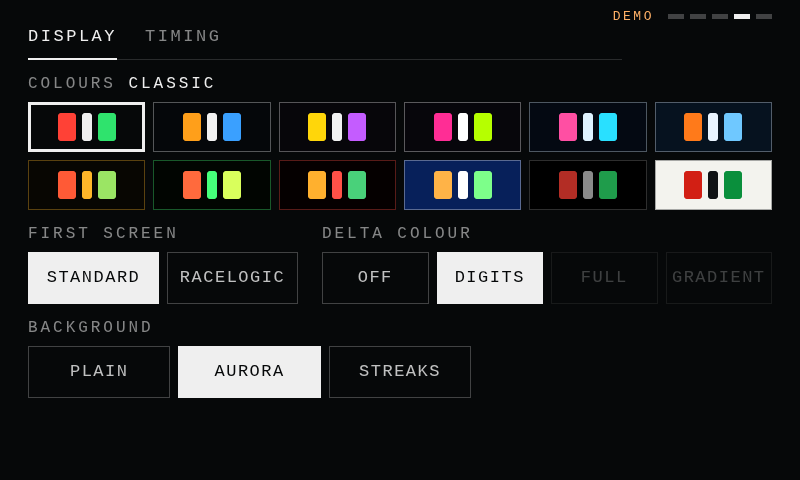
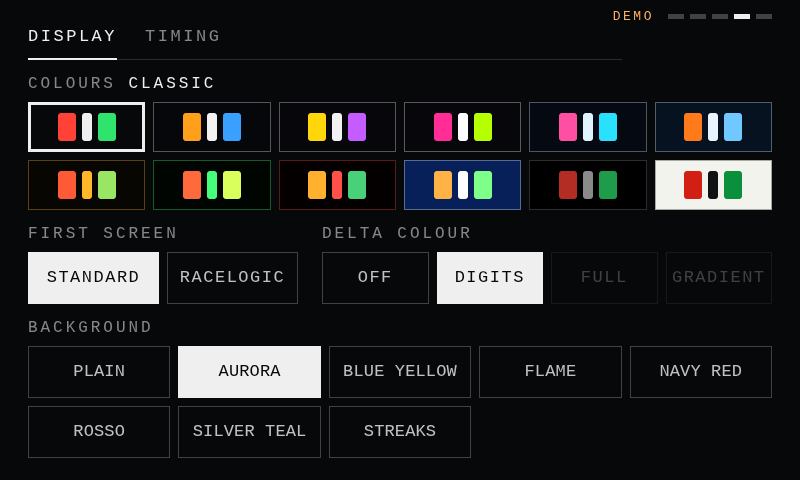
Back leaves demo laps, and bring the README up to date
Back on the first screen now leaves demo laps; from any other screen it still
returns to the first one, so a demo lap survives a trip to the options pages.

The README's install section leads with the bridgething store, now that the
catalog is published and listed in the directory, and keeps building from the
repo as the second route. The Display options screenshot is retaken with every
background, and the Timing options and waiting screens join the table.

diff --git a/apps/lap-timer/src/App.tsx b/apps/lap-timer/src/App.tsx
@@ -56,7 +56,11 @@ export default function App() {
       // the fourth preset reaches both options pages: a second press turns to the other one
       if (preset === DISPLAY) setScreen(current => (current === DISPLAY ? SETUP : DISPLAY));
       else if (preset >= 0) setScreen(preset);
-      else if (event.key === 'Escape') setScreen(0);
+      // back steps out one level at a time: to the first screen, then out of demo laps
+      else if (event.key === 'Escape') {
+        if (screen === 0 && feed === 'demo') setFeed('desktop');
+        else setScreen(0);
+      }
     };
     const onWheel = (event: WheelEvent) => {
       const turn = event.deltaX || event.deltaY;
@@ -74,7 +78,7 @@ export default function App() {
       window.removeEventListener('keydown', onKey);
       window.removeEventListener('wheel', onWheel);
     };
-  }, [wake]);
+  }, [wake, screen, feed, setFeed]);
 
   const name = SCREENS[screen]!;
   const options = name === 'setup' || name === 'display';

diff --git a/README.md b/README.md
@@ -36,8 +36,10 @@ into a small programmable display, and it borrows its idea from the Racelogic VB
 | **Moving background.** Aurora, one of the backgrounds that ship with it.     | **Laps.** This lap, the last, the session best, and the run so far.   |
 | ![Speed](apps/lap-timer/screenshots/06-speed.png)                            | ![Display options](apps/lap-timer/screenshots/07-display-options.png) |
 | **Speed**, with the gap to the reference lap's speed at this point.          | **Display options**, on the device itself.                            |
+| ![Timing options](apps/lap-timer/screenshots/08-timing-options.png)          | ![Waiting for a sim](apps/lap-timer/screenshots/09-waiting.png)       |
+| **Timing options.** Reference lap, units, and what the LEDs stand for.       | **Waiting for a sim**, with demo laps and sleep a tap away.           |
 
-These are screenshots taken off a Car Thing running demo laps.
+These are screenshots taken off a Car Thing, with demo laps on the timing screens.
 
 ## Controls
 
@@ -48,7 +50,7 @@ These are screenshots taken off a Car Thing running demo laps.
 | Preset 3       | Speed: speedometer and top speed this lap     |
 | Preset 4       | Options: Display page, press again for Timing |
 | Dial           | Step through the screens                      |
-| Back           | Return to Delta                               |
+| Back           | Return to Delta; on Delta, leave demo laps    |
 | Tap the screen | Next timing screen                            |
 
 The **Display** page sets how it looks:
@@ -91,15 +93,33 @@ the same point on track.
 - A Spotify Car Thing flashed with [bridgething](https://bridgething.com)
 - A Windows PC running the sim, with the bridgething desktop app and the Car Thing plugged in
   over USB
-- [Bun](https://bun.sh) to build it
+- [Bun](https://bun.sh), only if you build it yourself
 
 The sim readers use Windows shared memory, so the PC half is Windows only.
 
 ## Install
 
-1. Flash the Car Thing from <https://bridgething.com> (Chrome, USB-C cable) and install the
-   bridgething desktop app on the sim PC.
-2. Build and package:
+Flash the Car Thing from <https://bridgething.com> (Chrome, USB-C cable) and install the
+bridgething desktop app on the sim PC. Then get the app one of two ways.
+
+### From the store
+
+1. In the desktop app, open the store screen.
+2. Find **Lap Timer** under **community apps**. If it is not listed, paste this address into
+   **browse a source by url** and add the source it opens:
+
+   ```text
+   https://azlum0.github.io/AzLapTimer/catalog.v1.json
+   ```
+
+3. Install it. It will ask you to allow the extension to load native libraries, which is how it
+   reads the sim's memory.
+
+New versions show up in the store as updates.
+
+### From this repo
+
+1. Build and package:
 
    ```sh
    bun install
@@ -107,11 +127,10 @@ The sim readers use Windows shared memory, so the PC half is Windows only.
    bun run share
    ```
 
-3. In the desktop app, open the store screen, find **install a local bundle**, and pick
-   `apps/lap-timer/Lap-Timer-<version>.zip`. It will ask you to allow the extension to load
-   native libraries, which is how it reads the sim's memory.
+2. On the desktop app's store screen, find **install a local bundle** and pick
+   `apps/lap-timer/Lap-Timer-<version>.zip`. It asks for the same permission.
 
-The desktop app copies the screen half to the Car Thing and keeps the PC half for itself, so the
+Either way, the desktop app copies the screen half to the Car Thing and keeps the PC half for itself, so the
 timer works whenever the desktop app is open. Turn on **start with this computer** in its settings
 and there is nothing to launch.
 

diff --git a/apps/lap-timer/CHANGELOG.md b/apps/lap-timer/CHANGELOG.md
@@ -1,5 +1,9 @@
 # lap-timer
 
+## 0.14.1
+
+Back on the first screen leaves demo laps.
+
 ## 0.14.0
 
 Sleep turns the backlight right down and restores it on waking. A Sleep now button on the waiting screen.
